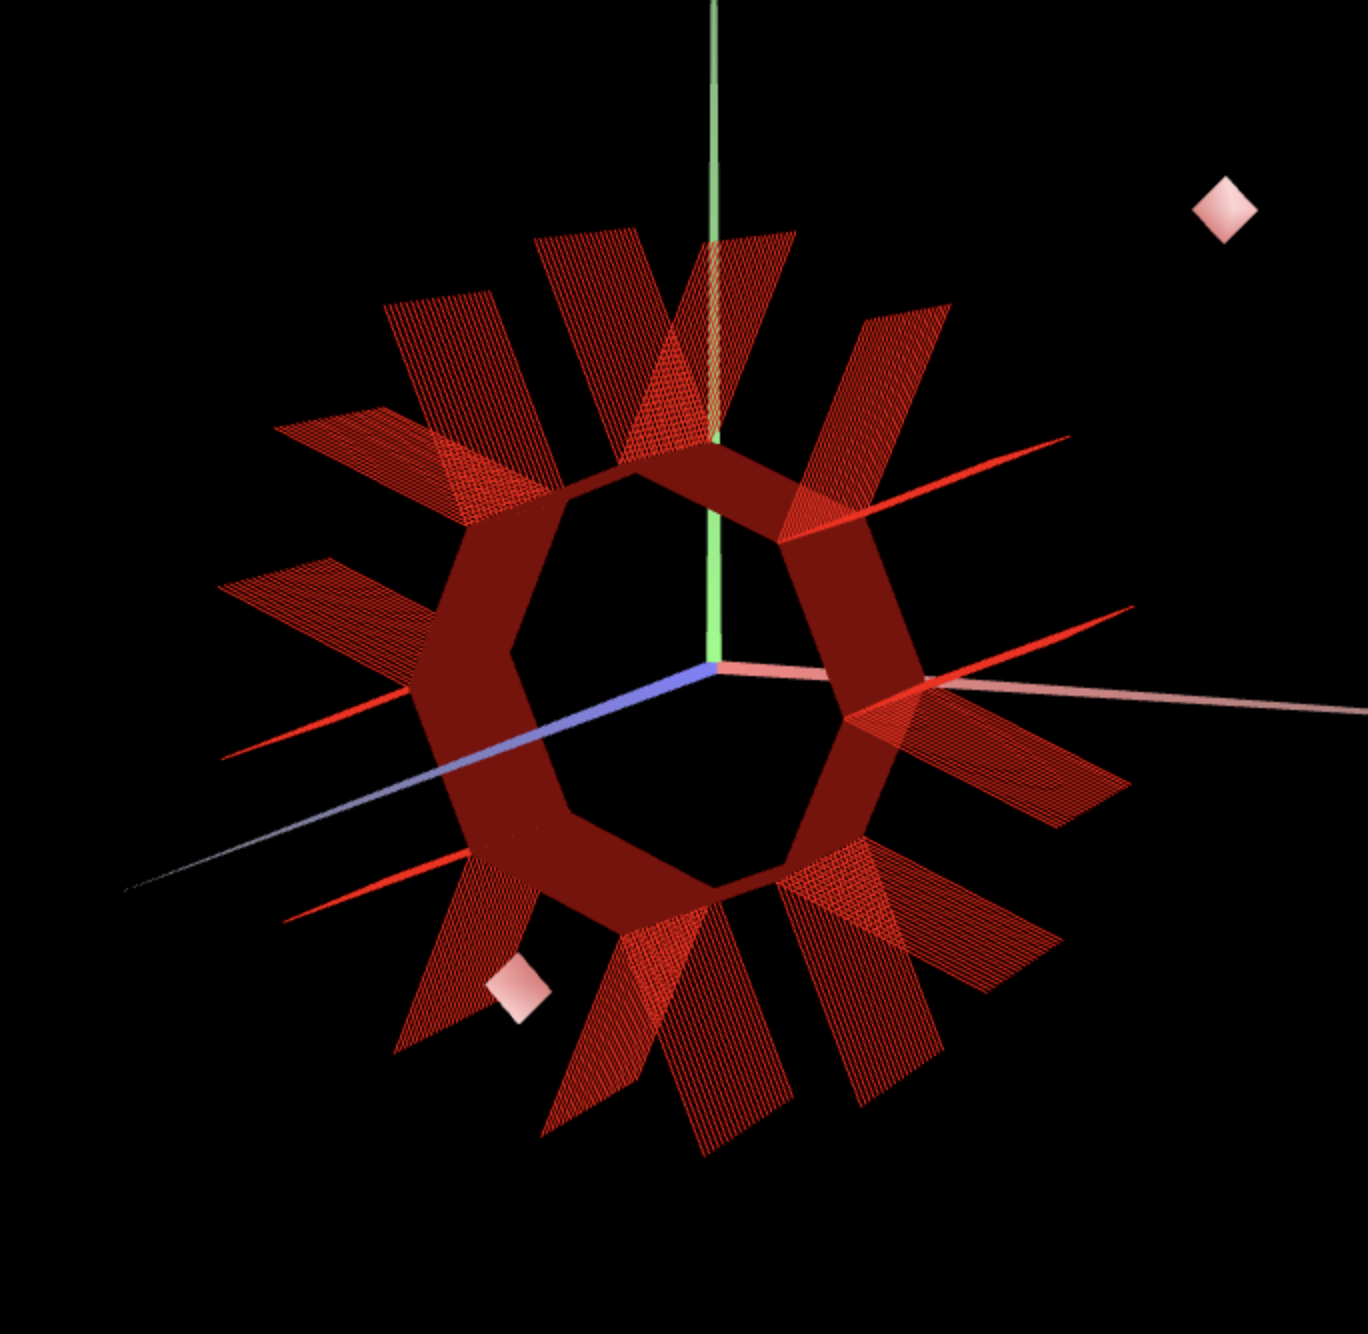
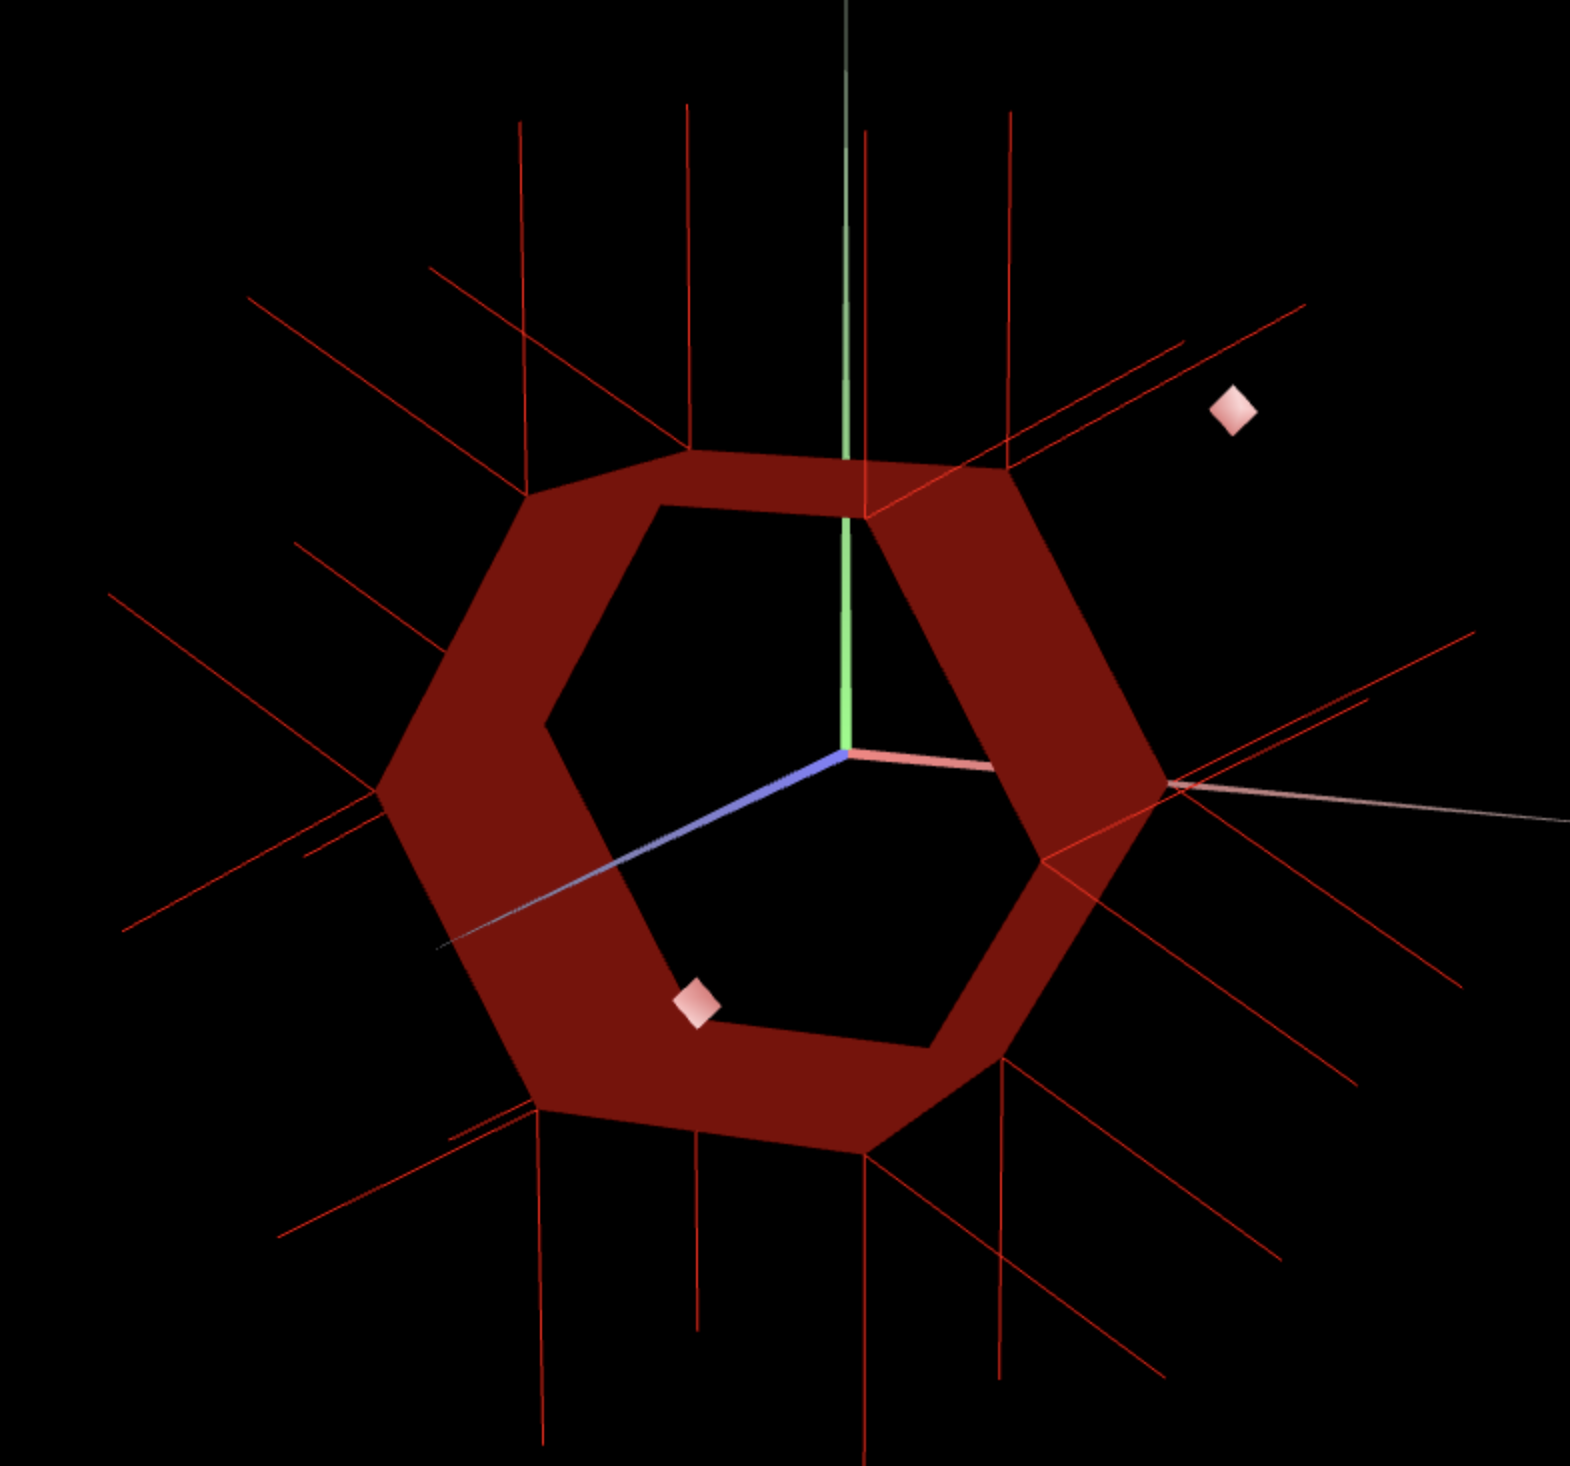
tp3-3 is complete

diff --git a/tp3/MyCilinder.js b/tp3/MyCilinder.js
@@ -1,0 +1,82 @@
+import {CGFobject} from '../lib/CGF.js';
+/**
+ * MyDiamond
+ * @constructor
+ * @param scene - Reference to MyScene object
+ */
+export class MyCilinder extends CGFobject {
+	constructor(scene, slices, stacks) {
+		super(scene);
+		this.slices = slices;
+		this.stacks = stacks;
+		this.initBuffers();
+	}
+	
+	initBuffers() {
+
+		this.vertices = [];
+		this.normals = [];
+		var period = 2 * Math.PI / this.slices;
+
+		for (var ang = 0; ang < 2 * Math.PI; ang += period){
+
+			const x = Math.cos(ang);
+			const y = Math.sin(ang);
+
+			for (var s = 0; s <= this.stacks; s++) {
+
+				var z = s * (1/this.stacks);
+
+				this.vertices.push(x, y, z);
+				this.vertices.push(x, y, z);
+
+				var x1 = Math.cos(ang - (period/2));
+				var y1 = Math.sin(ang - (period/2));
+				var z1 = 0; 
+                //this.normals.push(x1, y1, z1);
+
+				var x2 = Math.cos(ang + (period/2));
+				var y2 = Math.sin(ang + (period/2));
+				var z2 = 0; 
+                //this.normals.push(x2, y2, z2);
+
+                this.normals.push((x1+x2)/2, (y1+y2)/2, z2);
+                this.normals.push((x1+x2)/2, (y1+y2)/2, z2);
+            }			
+		}
+		
+
+		//Counter-clockwise reference of vertices
+		this.indices = [];
+		var space = (this.stacks + 1) * 2;
+
+		for (var level = 0; level < this.stacks; level++) {
+			
+			for (var s = 0; s < this.slices ; s++) {
+
+				var a = 1 + level * 2 + space * s;
+				var b = a + 2;
+				var c = a + space - 1;
+				var d = c + 2;
+
+				a = a >= (this.vertices.length / 3) ? a - this.vertices.length / 3 : a;
+				b = b >= (this.vertices.length / 3) ? b - this.vertices.length / 3 : b;
+				c = c >= (this.vertices.length / 3) ? c - this.vertices.length / 3 : c;
+				d = d >= (this.vertices.length / 3) ? d - this.vertices.length / 3 : d;
+
+				this.indices.push(a, b, c);
+				this.indices.push(a, c, b);
+				
+				this.indices.push(b, c, d);
+				this.indices.push(b, d, c);
+
+			}
+		}
+
+		//The defined indices (and corresponding vertices)
+		//will be read in groups of three to draw triangles
+		this.primitiveType = this.scene.gl.TRIANGLES;
+
+		this.initGLBuffers();
+	}
+}

diff --git a/tp3/MyScene.js b/tp3/MyScene.js
@@ -37,7 +37,7 @@ export class MyScene extends CGFscene {
         this.tangram = new MyTangram(this);
         this.cube = new MyUnitCube(this);
         this.prism = new MyPrism(this, 8, 20);
-        this.cilinder = new MyCilinder(this, 8, 1)
+        this.cilinder = new MyCilinder(this, 8, 20)
         
         this.objects = [this.plane, this.pyramid, this.cone,this.tangram, this.cube, this.prism, this.cilinder];
 
